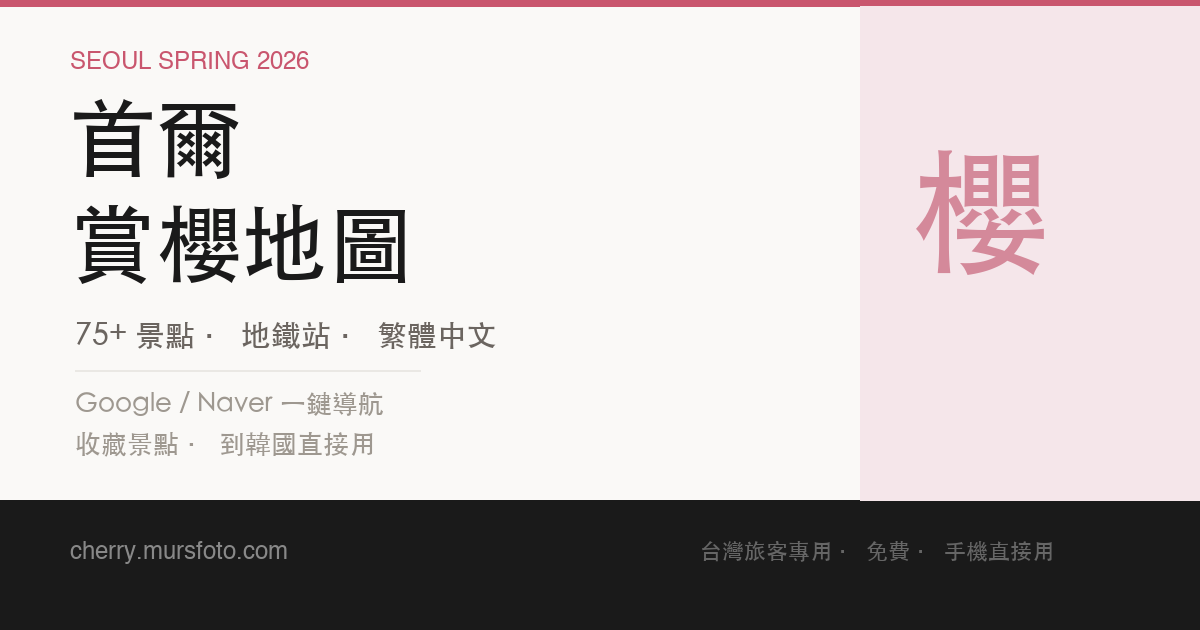
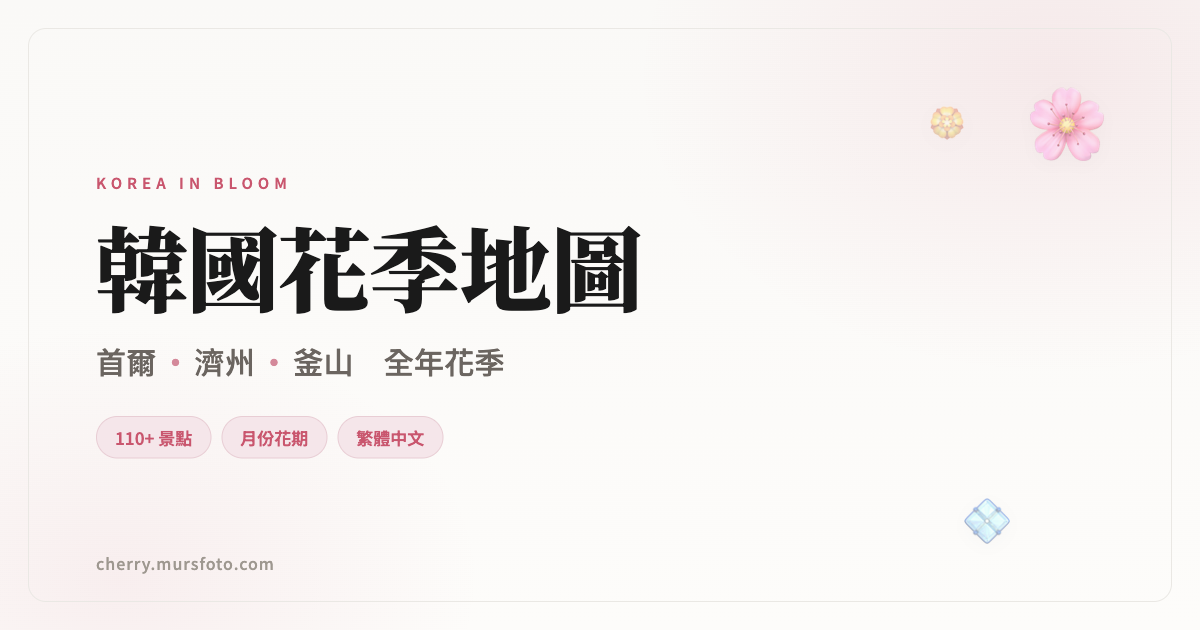
feat: rebrand to korea flower map with new og image

diff --git a/og-image-source.html b/og-image-source.html
@@ -1,0 +1,122 @@
+<!DOCTYPE html>
+<html lang="zh-TW">
+<head>
+<meta charset="UTF-8">
+<title>og-image-source</title>
+<link href="https://fonts.googleapis.com/css2?family=Noto+Serif+TC:wght@600;900&family=Noto+Sans+TC:wght@400;500;600;700&display=swap" rel="stylesheet">
+<style>
+  :root {
+    --bg: #faf9f7;
+    --surface: #ffffff;
+    --surface-warm: #fdfcfa;
+    --border: #eae8e4;
+    --text: #1a1a1a;
+    --text-secondary: #6b6560;
+    --text-tertiary: #9e9890;
+    --accent: #c9566e;
+    --accent-light: #f5e6ea;
+    --accent-muted: #d4899a;
+    --font-display: 'Noto Serif TC', 'Georgia', serif;
+    --font-body: 'Noto Sans TC', -apple-system, BlinkMacSystemFont, sans-serif;
+  }
+  * { margin: 0; padding: 0; box-sizing: border-box; }
+  html, body {
+    width: 1200px; height: 630px;
+    overflow: hidden;
+    font-family: var(--font-body);
+  }
+  .card {
+    width: 1200px; height: 630px;
+    position: relative;
+    background:
+      radial-gradient(ellipse 700px 500px at 88% 12%, rgba(201,86,110,.10), transparent 60%),
+      radial-gradient(ellipse 600px 420px at 10% 92%, rgba(212,137,154,.12), transparent 60%),
+      linear-gradient(180deg, var(--bg) 0%, var(--surface-warm) 100%);
+    display: flex;
+    flex-direction: column;
+    justify-content: center;
+    padding: 0 96px;
+  }
+  .card::before {
+    content: "";
+    position: absolute; inset: 28px;
+    border: 1px solid var(--border);
+    border-radius: 18px;
+    pointer-events: none;
+  }
+  .motif {
+    position: absolute;
+    font-size: 64px;
+    opacity: .5;
+    filter: drop-shadow(0 4px 10px rgba(0,0,0,.05));
+  }
+  .motif-1 { top: 66px; right: 96px; font-size: 74px; }
+  .motif-2 { bottom: 78px; right: 190px; font-size: 46px; opacity: .38; }
+  .motif-3 { top: 96px; right: 236px; font-size: 34px; opacity: .3; }
+
+  .eyebrow {
+    font-size: 15px; letter-spacing: 5px; text-transform: uppercase;
+    color: var(--accent); font-weight: 600;
+    margin-bottom: 20px;
+  }
+  h1 {
+    font-family: var(--font-display);
+    font-weight: 900;
+    font-size: 92px;
+    line-height: 1.12;
+    color: var(--text);
+    letter-spacing: -1px;
+    max-width: 860px;
+  }
+  .subtitle {
+    margin-top: 22px;
+    font-size: 30px;
+    font-weight: 500;
+    color: var(--text-secondary);
+    letter-spacing: 0.2px;
+  }
+  .subtitle .dot { color: var(--accent-muted); margin: 0 4px; }
+
+  .tags {
+    margin-top: 34px;
+    display: flex; gap: 10px;
+  }
+  .tag {
+    padding: 8px 18px;
+    border-radius: 999px;
+    background: var(--accent-light);
+    color: var(--accent);
+    font-size: 17px;
+    font-weight: 600;
+    border: 1px solid #e8cdd4;
+  }
+
+  .footer-brand {
+    position: absolute;
+    left: 96px; bottom: 56px;
+    font-size: 16px;
+    color: var(--text-tertiary);
+    letter-spacing: 1px;
+    font-weight: 500;
+  }
+</style>
+</head>
+<body>
+  <div class="card">
+    <div class="motif motif-1">🌸</div>
+    <div class="motif motif-2">💠</div>
+    <div class="motif motif-3">🏵</div>
+
+    <p class="eyebrow">Korea in Bloom</p>
+    <h1>韓國花季地圖</h1>
+    <p class="subtitle">首爾<span class="dot">・</span>濟州<span class="dot">・</span>釜山　全年花季</p>
+    <div class="tags">
+      <span class="tag">110+ 景點</span>
+      <span class="tag">月份花期</span>
+      <span class="tag">繁體中文</span>
+    </div>
+
+    <p class="footer-brand">cherry.mursfoto.com</p>
+  </div>
+</body>
+</html>

diff --git a/index.html b/index.html
@@ -3,10 +3,10 @@
 <head>
   <meta charset="UTF-8">
   <meta name="viewport" content="width=device-width, initial-scale=1.0">
-  <title>首爾賞櫻地圖 2026 — Seoul Cherry Blossom Map</title>
-  <meta name="description" content="2026 首爾櫻花景點互動地圖，75+ 個春花路線，繁體中文介面，專為台灣旅客設計">
-  <meta property="og:title" content="首爾賞櫻地圖 2026 — 台灣人專用繁中版">
-  <meta property="og:description" content="75+ 個首爾春花景點＋地鐵站資訊＋Google/Naver 導航，收藏景點一鍵出發！">
+  <title>韓國花季地圖 — 首爾・濟州・釜山 全年賞花</title>
+  <meta name="description" content="韓國賞花互動地圖：首爾、濟州島、釜山 110+ 花季景點，可切月份看預估花期，繁體中文介面，專為台灣旅客設計">
+  <meta property="og:title" content="韓國花季地圖 — 台灣人專用繁中版">
+  <meta property="og:description" content="首爾・濟州・釜山 110+ 花季景點＋月份預估花期＋Google/Naver 導航，櫻花油菜花繡球花山茶花一站看！">
   <meta property="og:type" content="website">
   <meta property="og:url" content="https://cherry.mursfoto.com">
   <meta property="og:image" content="https://cherry.mursfoto.com/og-image.png">
@@ -22,9 +22,9 @@
   <header class="header">
     <div class="header-inner">
       <div class="header-left">
-        <p class="header-eyebrow">Seoul Spring 2026</p>
-        <h1>首爾賞櫻地圖</h1>
-        <p class="subtitle">75+ 春花景點 · 地鐵導航 · 繁體中文</p>
+        <p class="header-eyebrow">Korea in Bloom</p>
+        <h1>韓國花季地圖</h1>
+        <p class="subtitle">首爾・濟州・釜山 · 全年花季 · 繁體中文</p>
       </div>
       <div class="share-btns">
         <button class="share-btn" id="shareLine">LINE</button>

diff --git a/app.js b/app.js
@@ -1,4 +1,4 @@
-// 首爾賞櫻地圖 — 主應用程式 v2
+// 韓國花季地圖 — 主應用程式 v2
 (function() {
   "use strict";
 
@@ -324,7 +324,7 @@
   var shareLineBtn = document.getElementById("shareLine");
   var shareCopyBtn = document.getElementById("shareCopy");
   var pageUrl = window.location.href;
-  var shareText = "🌸 首爾賞櫻地圖 2026 — 75+ 個春花景點，繁中介面，專為台灣旅客！";
+  var shareText = "🌸 韓國花季地圖 — 首爾・濟州・釜山 110+ 賞花景點，切月份看預估花期，專為台灣旅客！";
 
   if (shareLineBtn) {
     shareLineBtn.addEventListener("click", function() {
